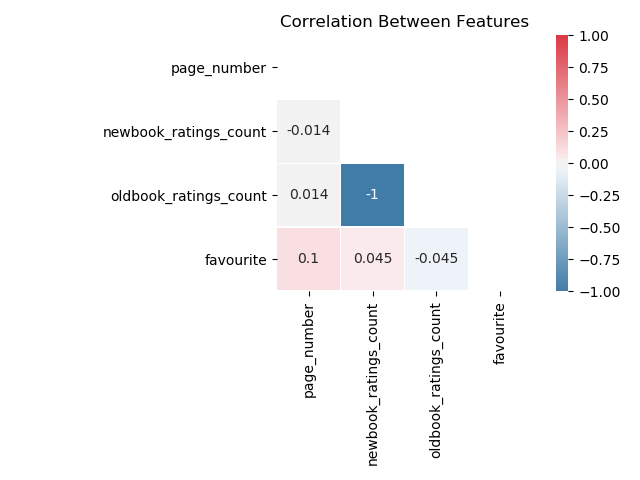
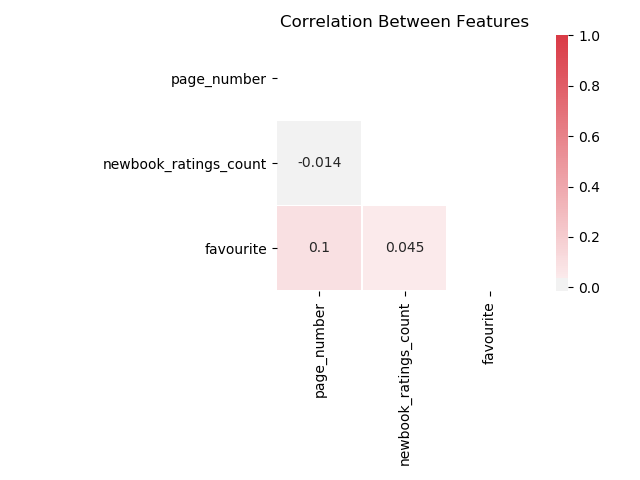
first commit

diff --git a/project_code.py b/project_code.py
@@ -52,14 +52,12 @@ mac_data[['new_ratings','old_ratings']] = mac_data[['new_ratings','old_ratings']
 #comparison the number of new or old books
 for i in mac_data.index:
     if mac_data.loc[i,'new_ratings'] >= mac_data.loc[i,'old_ratings']:
-        mac_data.loc[i,'old_ratings'] = 'old'
         mac_data.loc[i,'new_ratings'] = 'new'
     else:
         mac_data.loc[i,'new_ratings'] = 'old'
-        mac_data.loc[i,'old_ratings'] = 'new'
-mac_data.rename({'new_ratings': 'new_book_ratings','old_ratings': 'old_book_ratings'},axis=1,inplace=True)
+mac_data.rename({'new_ratings': 'new_book_ratings'},axis=1,inplace=True)
 mac_data.reset_index(inplace=True)
-mac_data.drop(['authors'], axis=1, inplace=True)
+mac_data.drop(['authors','old_ratings'], axis=1, inplace=True)
 # Figure distribution of favourite book between the number of page and books ratings count
 
 # sns.set_context('paper')
@@ -75,8 +73,8 @@ plt.savefig(f'plots/favourite_book_distribution.png')
 plt.show()
 plt.clf()
 # Convert categorical variable into dummy variables
-m_data = pd.get_dummies(mac_data, columns=['new_book_ratings','old_book_ratings','favourite'], drop_first=True)
-m_data.rename({'new_book_ratings_old': 'newbook_ratings_count','old_book_ratings_old': 'oldbook_ratings_count','favourite_yes': 'favourite'},axis=1,inplace=True)
+m_data = pd.get_dummies(mac_data, columns=['new_book_ratings','favourite'], drop_first=True)
+m_data.rename({'new_book_ratings_old': 'newbook_ratings_count','favourite_yes': 'favourite'},axis=1,inplace=True)
 corr = m_data.corr()
 mask = np.triu(np.ones_like(corr, dtype=np.bool))
 cmap = sns.diverging_palette(240,10, as_cmap=True)
